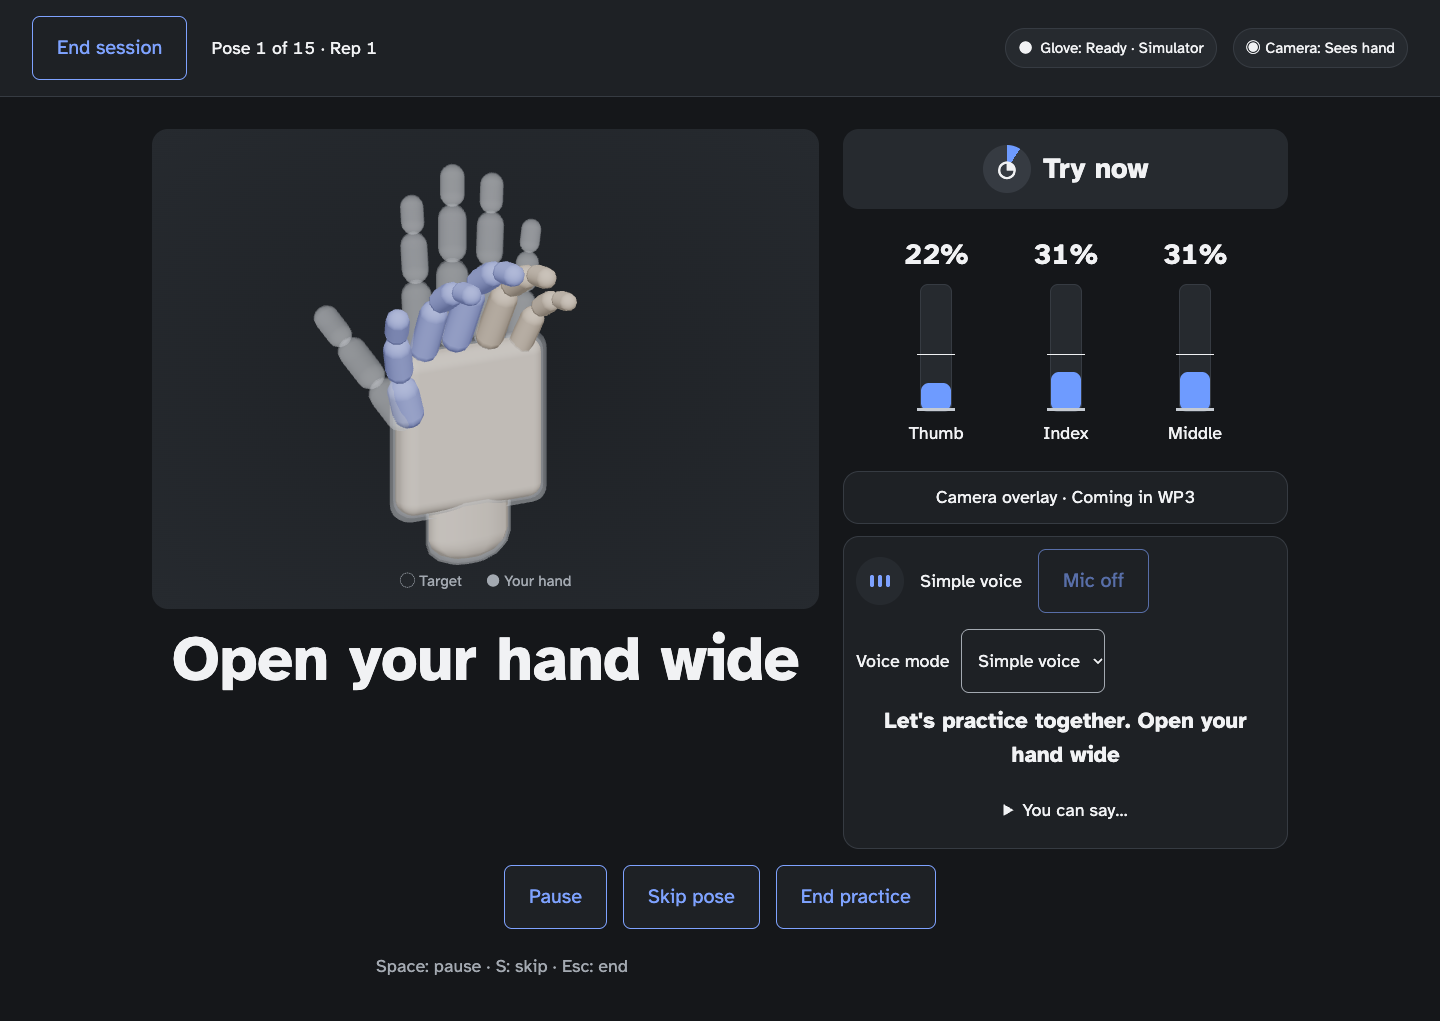
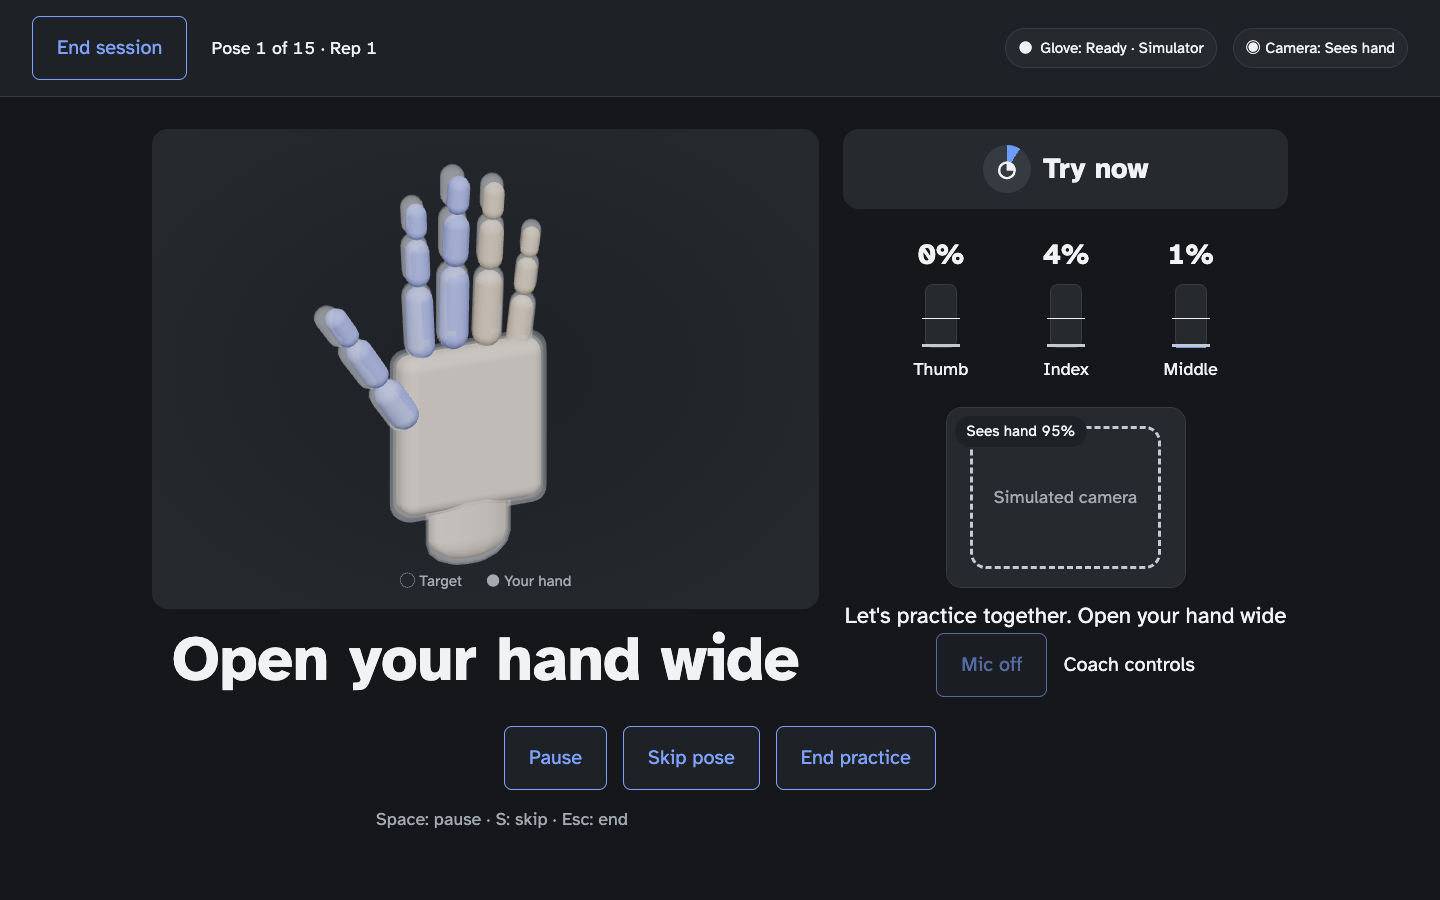
wp7: connect camera provider and finalize Wave 1 verification
Use provider start/stop/calibration, owner capture statistics and mirrored previews. Refresh both-theme screenshots with the completed virtual hand, camera overlay and compact coach controls.

diff --git a/frontend/src/pages/Calibrate/index.tsx b/frontend/src/pages/Calibrate/index.tsx
@@ -46,11 +46,11 @@ export default function Calibrate() {
   }, [draft]);
   useEffect(() => {
     if (draft.step === 1) {
-      void vision.source
+      void vision
         .start({ affectedHand: draft.hand })
         .catch((e) => setError((e as Error).message));
     }
-  }, [draft.step, draft.hand, vision.source]);
+  }, [draft.step, draft.hand, vision]);
   useEffect(() => {
     mounted.current = true;
     const unsub = client.onEvent((e) => {
@@ -215,7 +215,7 @@ export default function Calibrate() {
       current_limit_ma: draft.limit,
     });
     await runtime.calibration.sendToGlove();
-    vision.source.setCalibration(camera);
+    vision.setCalibration(camera);
     saveDraft(freshDraft());
     setSaved(true);
   }
@@ -343,29 +343,24 @@ export default function Calibrate() {
       {draft.step === 1 && (
         <section className="card live-stack">
           <h2>Step 2 · Camera range</h2>
-          {vision.source.kind === 'sim' &&
-            !vision.source.latest()?.rawFlexSum &&
-            runtime.calibration.current && (
-              <>
-                <p>
-                  The scripted camera cannot capture finger angles. Use example
-                  values.
-                </p>
-                <BigButton
-                  onClick={() => {
-                    const c = runtime.calibration.current!.camera;
-                    update({
-                      open: { raw: c.open_flex, pinch: c.pinch_open },
-                      closed: { raw: c.closed_flex, pinch: c.pinch_closed },
-                      pinch: { raw: c.closed_flex, pinch: c.pinch_closed },
-                      hand: c.affected_hand,
-                    });
-                  }}
-                >
-                  Use example camera range (simulator)
-                </BigButton>
-              </>
-            )}
+          {vision.source.kind === 'sim' && runtime.calibration.current && (
+            <>
+              <p>Use example values to preview calibration without a camera.</p>
+              <BigButton
+                onClick={() => {
+                  const c = runtime.calibration.current!.camera;
+                  update({
+                    open: { raw: c.open_flex, pinch: c.pinch_open },
+                    closed: { raw: c.closed_flex, pinch: c.pinch_closed },
+                    pinch: { raw: c.closed_flex, pinch: c.pinch_closed },
+                    hand: c.affected_hand,
+                  });
+                }}
+              >
+                Use example camera range (simulator)
+              </BigButton>
+            </>
+          )}
 
           <label>
             Affected hand
@@ -393,9 +388,7 @@ export default function Calibrate() {
             />
             Mirror preview
           </label>
-          <div className={mirror ? 'preview-mirrored' : undefined}>
-            <CameraOverlay />
-          </div>
+          <CameraOverlay mirrored={mirror} />
           <p>Keep your hand still for two seconds.</p>
           {capture && (
             <div role="status">

diff --git a/frontend/src/pages/Exercise/index.tsx b/frontend/src/pages/Exercise/index.tsx
@@ -47,6 +47,7 @@ const Hand = memo(function Hand() {
   }, []);
   const actualJoints = useRef<JointMap | null>(null);
   useEffect(() => {
+    vision.setCalibration(runtime.calibration.current?.camera ?? null);
     const update = (frame: VisionFrame | null) => {
       actualJoints.current =
         frame?.detected && frame.confidence >= 0.6
@@ -58,7 +59,7 @@ const Hand = memo(function Hand() {
     };
     update(vision.source.latest());
     return vision.source.onFrame(update);
-  }, [vision.source, runtime]);
+  }, [vision, vision.source, runtime]);
   const actual = useCallback(() => actualJoints.current, []);
   const state = useCallback(
     (finger: string) => {
@@ -97,28 +98,34 @@ const CoachArea = memo(function CoachArea() {
   const voice = useVoice();
   return (
     <>
-      <div className="coach-full">
-        <CoachPanel />
-      </div>
       <div className="coach-compact">
         <p className="coach-caption">
           {voice.lastCoachLine ??
             (voice.mode === 'off' ? 'Voice off' : 'Your coach is here.')}
         </p>
-        <details
-          onKeyDown={(e) => {
-            if (e.key === 'Escape') {
-              e.preventDefault();
-              e.currentTarget.open = false;
-              e.currentTarget.querySelector('summary')?.focus();
-            }
-          }}
-        >
-          <summary>Coach controls</summary>
-          <div className="coach-popover">
-            <CoachPanel />
-          </div>
-        </details>
+        <div className="actions coach-quick-controls">
+          <BigButton
+            onClick={() => voice.setMuted(!voice.muted)}
+            disabled={voice.mode !== 'live'}
+            aria-pressed={voice.mode === 'live' && !voice.muted}
+          >
+            Mic {voice.mode === 'live' && !voice.muted ? 'on' : 'off'}
+          </BigButton>
+          <details
+            onKeyDown={(e) => {
+              if (e.key === 'Escape') {
+                e.preventDefault();
+                e.currentTarget.open = false;
+                e.currentTarget.querySelector('summary')?.focus();
+              }
+            }}
+          >
+            <summary>Coach controls</summary>
+            <div className="coach-popover">
+              <CoachPanel />
+            </div>
+          </details>
+        </div>
       </div>
     </>
   );
@@ -140,7 +147,7 @@ function LiveDetails() {
         assisting={view.assisting}
       />
       <div className="camera-pip">
-        <CameraOverlay />
+        <CameraOverlay compact />
       </div>
       <CoachArea />
     </aside>

diff --git a/frontend/src/pages/Setup/index.tsx b/frontend/src/pages/Setup/index.tsx
@@ -60,8 +60,13 @@ export default function Setup() {
     }
   }
   async function camera() {
-    await runtime.sources.setVision('camera');
-    await vision.source.start({
+    await vision.setKind('camera');
+    try {
+      await runtime.sources.setVision('camera');
+    } catch (e) {
+      if (!/comes in WP3/.test((e as Error).message)) throw e;
+    }
+    await vision.start({
       deviceId: deviceId || undefined,
       affectedHand:
         runtime.calibration.current?.camera.affected_hand ?? 'right',
@@ -207,12 +212,8 @@ export default function Setup() {
             />
             Mirror preview
           </label>
-          <div className={mirror ? 'preview-mirrored' : undefined}>
-            <CameraOverlay />
-          </div>
-          <BigButton onClick={() => vision.source.stop()}>
-            Stop camera
-          </BigButton>
+          <CameraOverlay mirrored={mirror} />
+          <BigButton onClick={() => vision.stop()}>Stop camera</BigButton>
         </section>
       </div>
       <section className="card simulator">
@@ -225,8 +226,12 @@ export default function Setup() {
               await runtime.sources.setGlove('sim');
               await glove.setKind('sim');
               await runtime.sources.setVision('sim');
+              await vision.setKind('sim');
+              vision.setCalibration(
+                runtime.calibration.current?.camera ?? null,
+              );
               setInfo(await glove.client.connect());
-              await vision.source.start({ affectedHand: 'right' });
+              await vision.start({ affectedHand: 'right' });
             })
           }
         >

diff --git a/frontend/src/components/common/live.css b/frontend/src/components/common/live.css
@@ -26,6 +26,8 @@
   margin-block: var(--space-16);
 }
 .live-details {
+  min-width: 0;
+  grid-template-columns: minmax(0, 1fr);
   display: grid;
   gap: var(--space-12);
 }
@@ -330,4 +332,52 @@ summary {
     padding: var(--space-24);
     box-shadow: var(--elevation-overlay);
   }
+}
+/* Patient captions stay visible; secondary coach controls open on demand. */
+.coach-compact {
+  min-width: 0;
+  display: block;
+  text-align: center;
+}
+.coach-compact > p {
+  font-size: var(--h3);
+  margin: 0;
+  display: -webkit-box;
+  -webkit-line-clamp: 2;
+  -webkit-box-orient: vertical;
+  overflow: hidden;
+}
+.coach-quick-controls {
+  gap: var(--space-8);
+  justify-content: center;
+}
+.coach-quick-controls summary {
+  min-height: var(--button-min-height);
+  display: flex;
+  align-items: center;
+  font-size: var(--button-label);
+}
+.coach-popover {
+  position: absolute;
+  inset-inline: var(--space-32);
+  inset-block-start: var(--space-64);
+  z-index: 10;
+  background: var(--surface);
+  border: var(--control-border) solid var(--border);
+  border-radius: var(--radius-card);
+  padding: var(--space-24);
+  box-shadow: var(--elevation-overlay);
+  text-align: start;
+}
+.camera-pip .camera-overlay {
+  margin-inline: auto;
+}
+.camera-pip .camera-overlay figcaption {
+  display: none;
+}
+.finger-track {
+  height: var(--space-64);
+}
+.focus .shortcut-help {
+  margin: 0;
 }

diff --git a/frontend/src/pages/Calibrate/draft.ts b/frontend/src/pages/Calibrate/draft.ts
@@ -1,3 +1,4 @@
+import { captureStats } from '../../vision/calibration';
 import type { CalibrationIn } from '../../contracts/api';
 import type { FingerId, VisionFrame } from '../../contracts/vision';
 import type { ServoCalibration } from '../../contracts/calibration';
@@ -81,7 +82,6 @@ export function stableCapture(frames: VisionFrame[]): Capture {
     valid.at(-1)!.t - valid[0].t < 1800
   )
     throw new Error('Keep your hand in view. Try again.');
-  const raw = {} as Record<FingerId, number>;
   for (const finger of fingers) {
     const values = valid.map((f) => f.rawFlexSum![finger]);
     if (
@@ -89,7 +89,6 @@ export function stableCapture(frames: VisionFrame[]): Capture {
       Math.max(...values) - Math.min(...values) > 12
     )
       throw new Error("Too much movement — let's try again.");
-    raw[finger] = values.reduce((a, b) => a + b, 0) / values.length;
   }
   const pinches = valid.map((f) => f.pinch!);
   if (
@@ -97,5 +96,6 @@ export function stableCapture(frames: VisionFrame[]): Capture {
     Math.max(...pinches) - Math.min(...pinches) > 0.08
   )
     throw new Error("Too much movement — let's try again.");
-  return { raw, pinch: pinches.reduce((a, b) => a + b, 0) / pinches.length };
+  const measured = captureStats(frames, 2);
+  return { raw: measured.rawFlexSum, pinch: measured.pinch };
 }

diff --git a/frontend/src/components/common/live-pages.test.tsx b/frontend/src/components/common/live-pages.test.tsx
@@ -53,6 +53,9 @@ vi.mock('../../hand3d/VirtualHand', () => ({
     return <div>Hand preview</div>;
   },
 }));
+vi.mock('../../vision/CameraOverlay', () => ({
+  CameraOverlay: () => <div>Camera preview</div>,
+}));
 const nativeFetch = globalThis.fetch;
 beforeAll(() => {
   server.listen({ onUnhandledRequest: 'error' });
@@ -115,7 +118,9 @@ async function startExercise(runtime: ScriptedRuntime) {
 }
 describe('Home and Setup', () => {
   it('loads greeting, labeled demo history and starts the short plan', async () => {
-    vi.useFakeTimers({ toFake: ['setInterval', 'clearInterval'] });
+    vi.useFakeTimers({
+      toFake: ['setInterval', 'clearInterval', 'performance'],
+    });
     server.use(
       http.get('*/api/profile', () =>
         HttpResponse.json({ ...profile, pseudonym: 'Alex' }),
@@ -126,7 +131,7 @@ describe('Home and Setup', () => {
     );
     const { runtime } = mount(<Home />);
     await act(async () => {
-      vi.advanceTimersByTime(100);
+      vi.advanceTimersByTime(500);
     });
     expect(
       await screen.findByRole('heading', { name: /Hello, / }),
